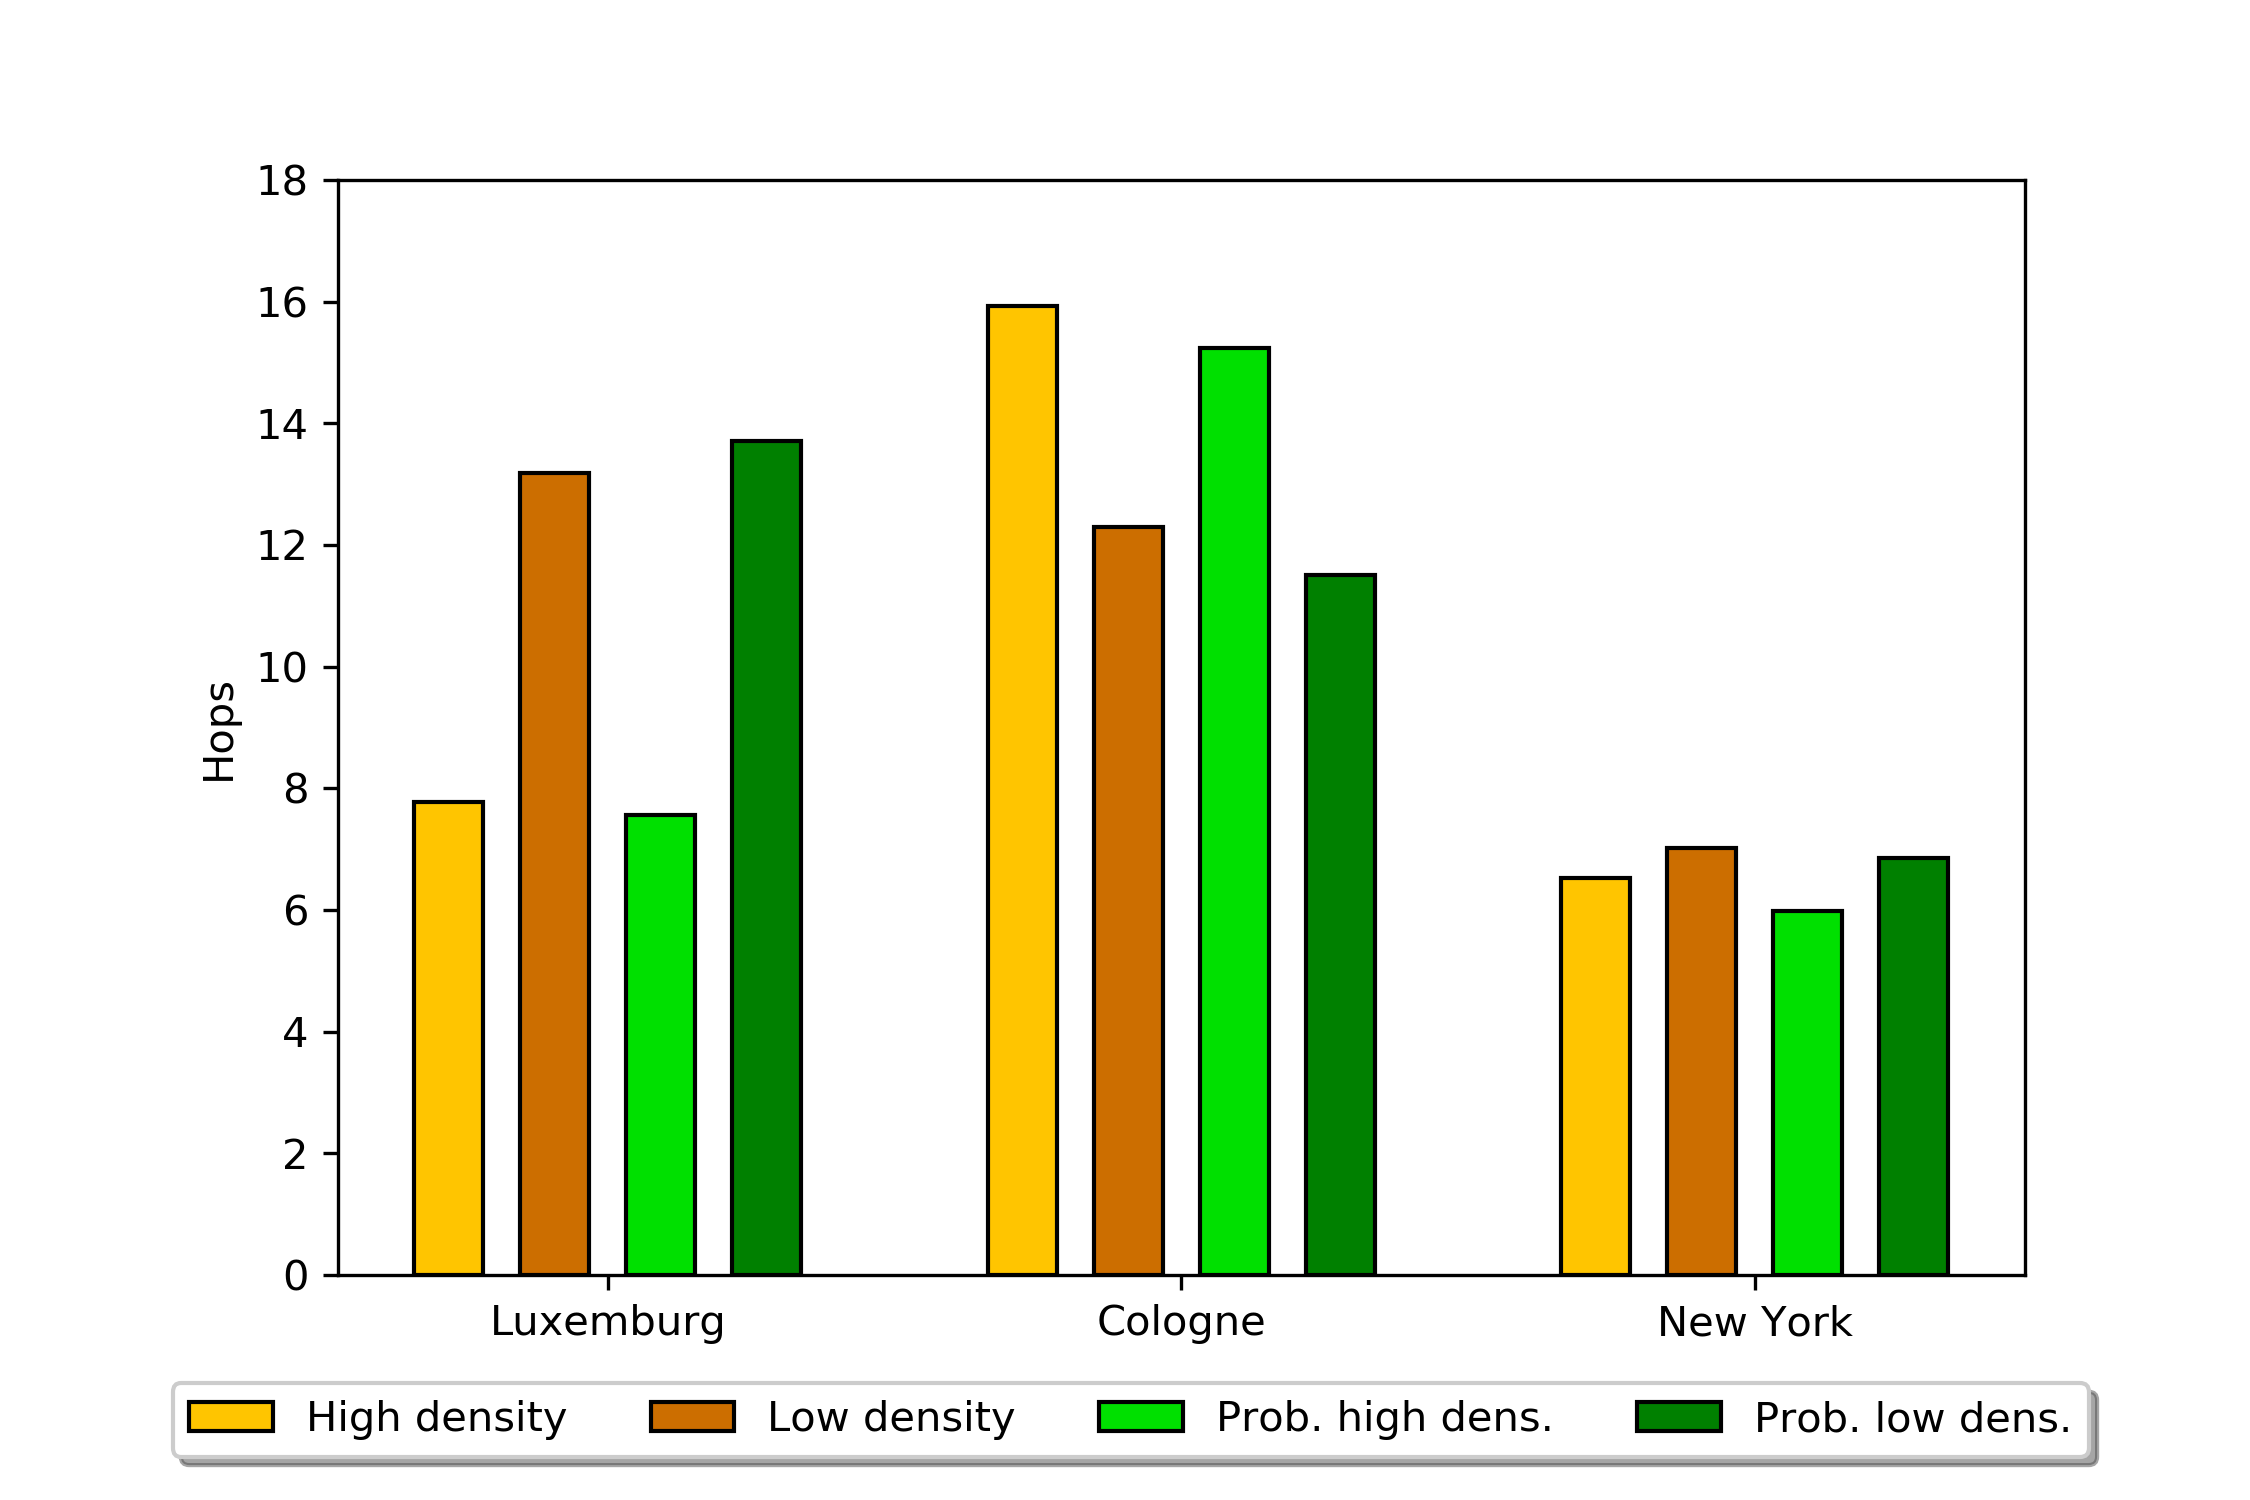
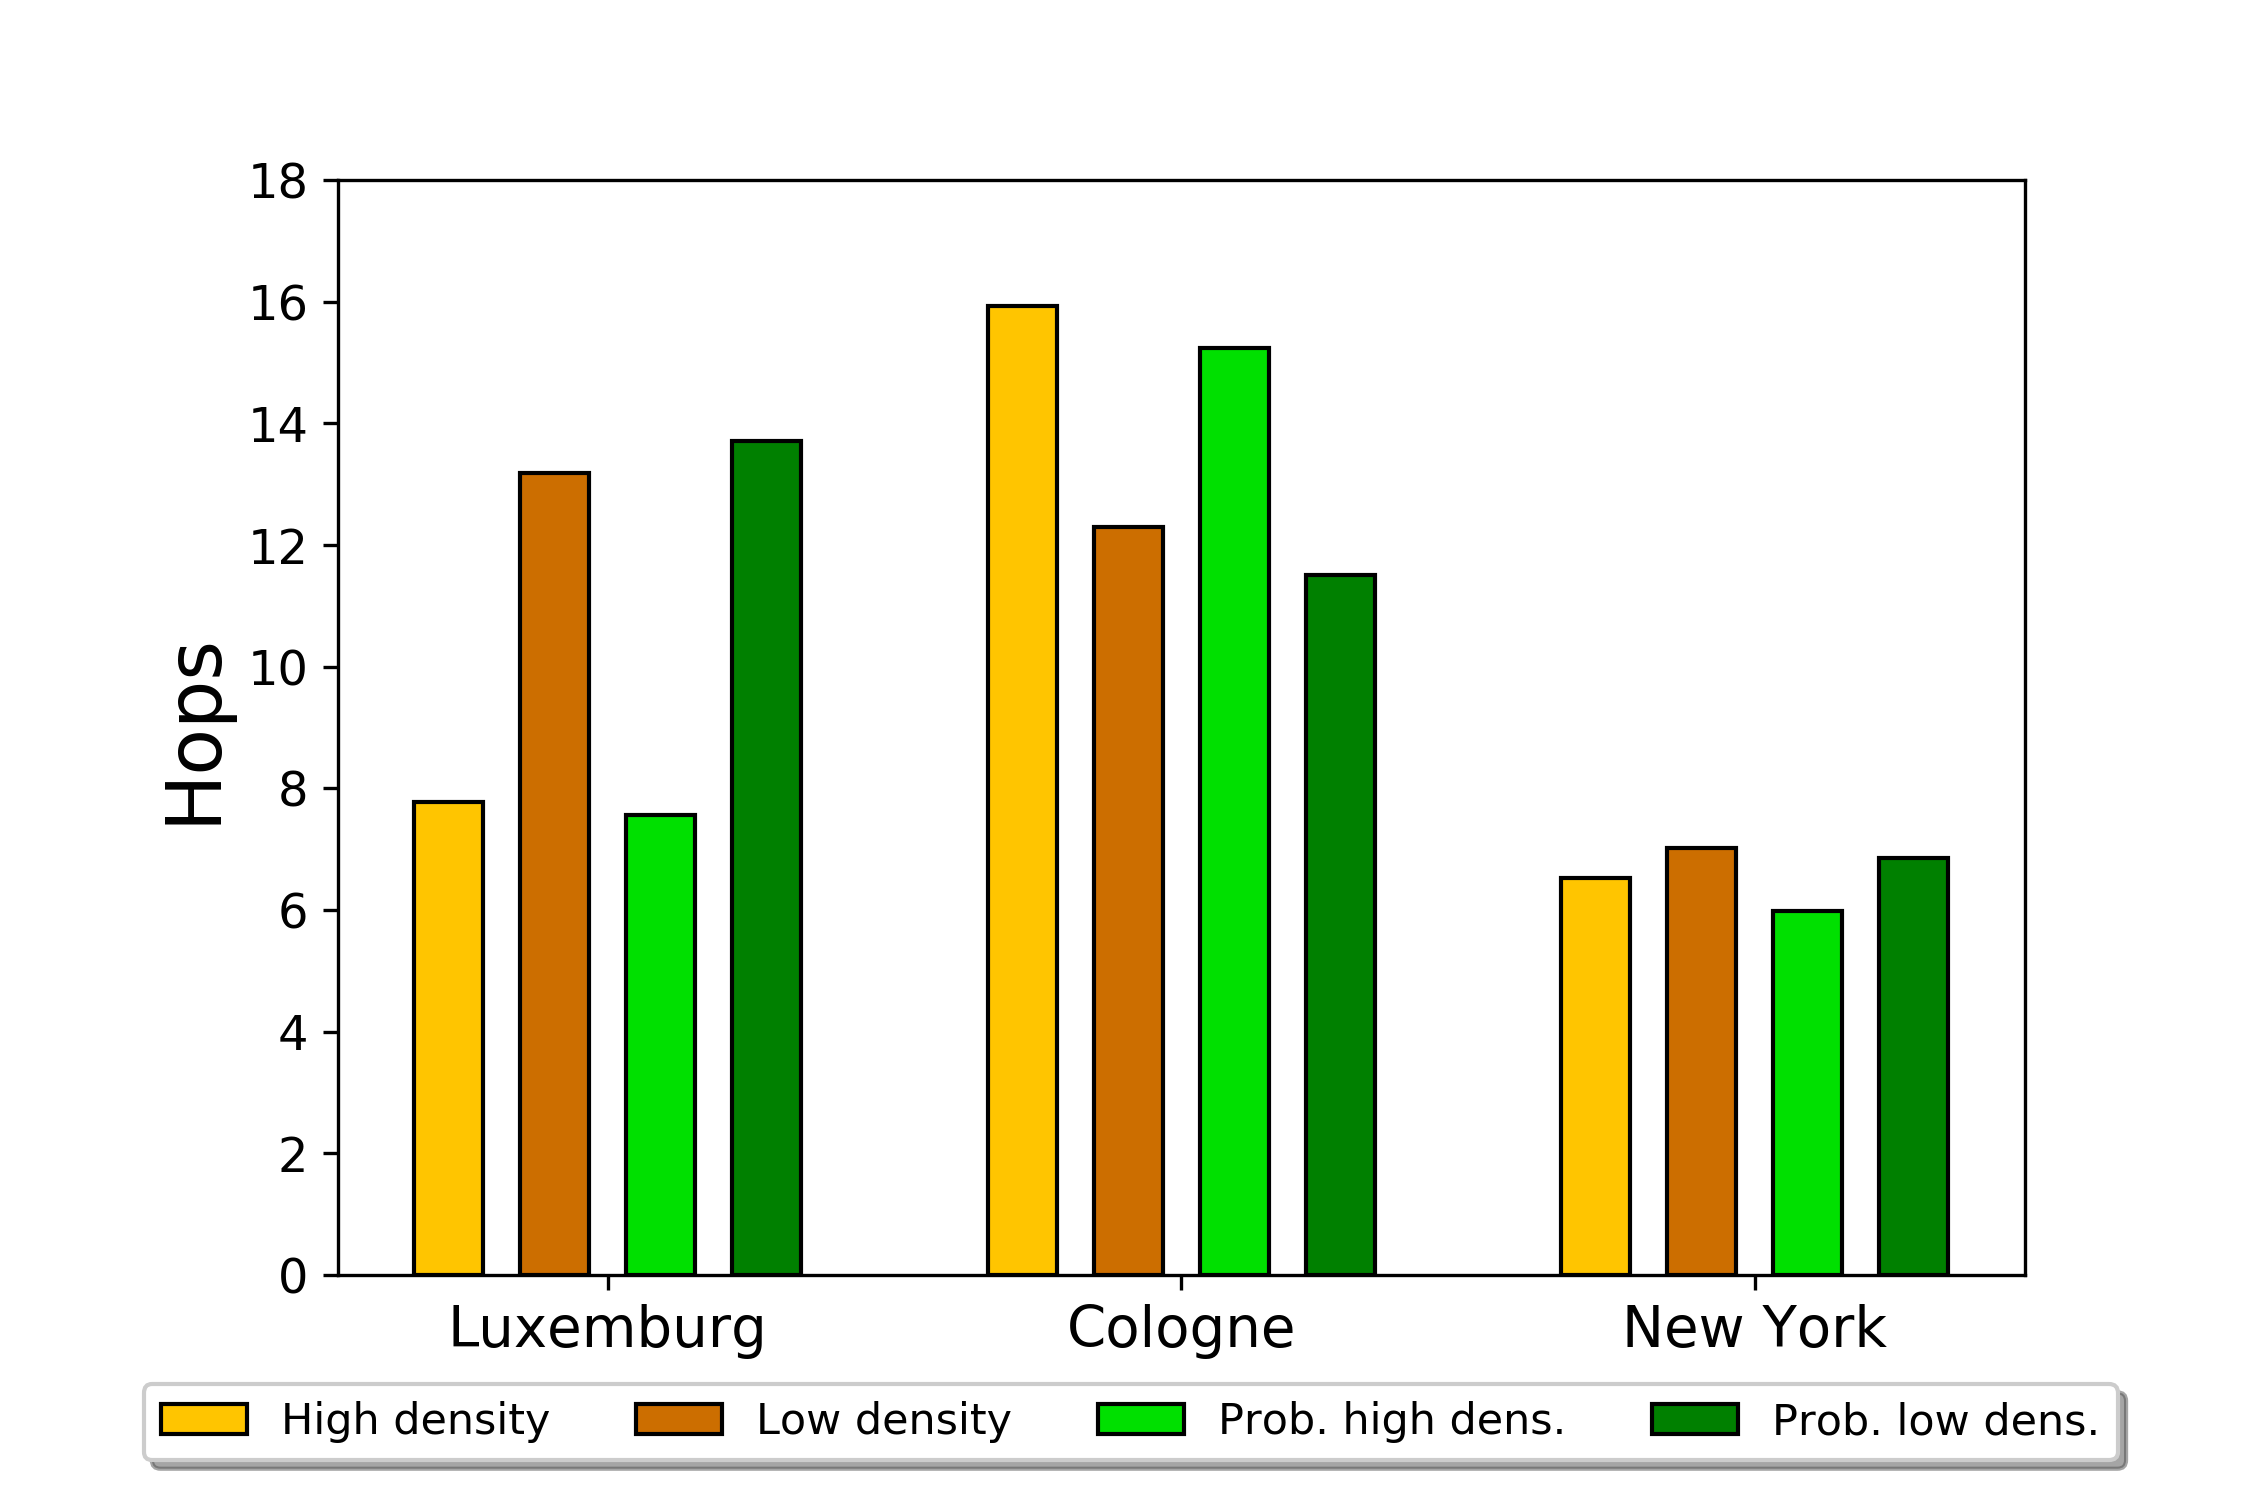
increased font size

diff --git a/grafici/graph-TC-emitters.py b/grafici/graph-TC-emitters.py
@@ -46,6 +46,14 @@ import numpy as np
 import matplotlib.pyplot as plt
 
 
+plt.rcParams.update({'font.size': 13})
+plt.rc('legend', fontsize=12.5)
+plt.rc('xtick', labelsize=12)
+plt.rc('ytick', labelsize=11.5)
+plt.rc('axes', titlesize=11)
+plt.rc('axes', labelsize=16.8)
+
+
 N = 4
 
 '''
@@ -122,7 +130,7 @@ plt.ylabel('Nodes (%)')
 plt.title('Luxembourg')
 plt.xticks(ind, ('1', '5', '10', 'Unlimited'))
 plt.yticks(np.arange(0, 1.1, 0.1))
-fig.text(0.5, 0.015, 'Emitters Length Limit', ha='center', va='center')
+fig.text(0.5, 0.019, 'Emitters Length Limit', ha='center', va='center')
 ax1.legend((p1[0], p2[0]), ('Relayers', 'Reached'), loc='lower left', fancybox=True)
 
 plt.tight_layout()

diff --git a/grafici/graph-TC-forw-recv.py b/grafici/graph-TC-forw-recv.py
@@ -46,6 +46,12 @@ import numpy as np
 import matplotlib.pyplot as plt
 
 
+plt.rcParams.update({'font.size': 18.3})
+plt.rc('legend', fontsize=13)
+plt.rc('xtick', labelsize=17)
+plt.rc('ytick', labelsize=11.5)
+
+
 N = 3
 means_infected_low = (0.9128-(305.71/787), 0.9542-(143.53/220), 0.9405-(155.61/433))
 means_frw_low = (355.48/790, 143.53/220, 155.61/433)
@@ -93,4 +99,4 @@ plt.yticks(np.arange(0, 1.1, 0.1))
 plt.legend((p3[0], p2[0], p4[0]), ('Relayers', 'Receivers high density', 'Receivers low density'), loc='upper left')
 
 #plt.show()
-plt.savefig('top_car/frw_recv.png', dpi=300)
+plt.savefig('grafici/top_car/frw_recv.png', dpi=300)

diff --git a/grafici/graph-TC-hops.py b/grafici/graph-TC-hops.py
@@ -46,6 +46,12 @@ import numpy as np
 import matplotlib.pyplot as plt
 
 
+plt.rcParams.update({'font.size': 18.3})
+plt.rc('legend', fontsize=10.3)
+plt.rc('xtick', labelsize=13.5)
+plt.rc('ytick', labelsize=11.5)
+
+
 N = 3
 #means_infected_low = (0.9128-(305.71/787), 0.9542-(143.53/220), 0.9405-(155.61/433))
 #means_frw_low = (355.48/790, 143.53/220, 155.61/433)

diff --git a/grafici/graph-TC-comparison.py b/grafici/graph-TC-comparison.py
@@ -46,6 +46,12 @@ import numpy as np
 import matplotlib.pyplot as plt
 
 
+plt.rcParams.update({'font.size': 18.3})
+plt.rc('legend', fontsize=10)
+plt.rc('xtick', labelsize=17)
+plt.rc('ytick', labelsize=11.5)
+
+
 N = 3
 #means_infected_low = (0.9128-(305.71/787), 0.9542-(143.53/220), 0.9405-(155.61/433))
 #means_frw_low = (355.48/790, 143.53/220, 155.61/433)

diff --git a/grafici/graph-TC-time.py b/grafici/graph-TC-time.py
@@ -45,6 +45,10 @@ plt.show()
 import numpy as np
 import matplotlib.pyplot as plt
 
+plt.rcParams.update({'font.size': 18.5})
+plt.rc('legend', fontsize=13)
+plt.rc('xtick', labelsize=14)
+plt.rc('ytick', labelsize=11.5)
 
 N = 3
 
